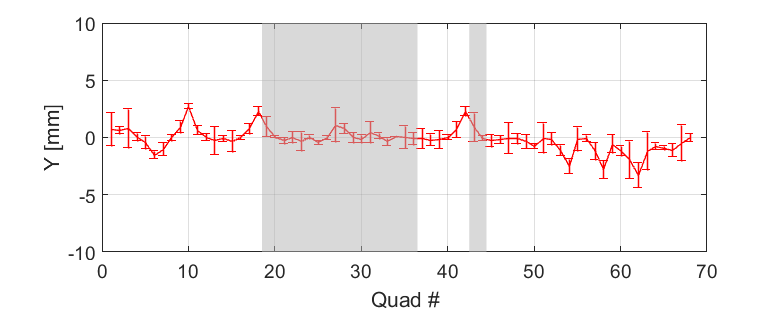
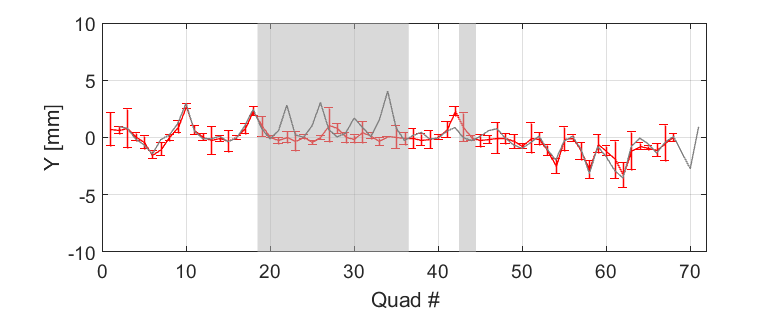
Ch6: added new RSV vert. orbit results

diff --git a/6.Chapter.tex b/6.Chapter.tex
@@ -380,6 +380,20 @@ I conclude that the existing vertical correcters provide too weak of a correctio
 
 
 
+\begin{table}[h]
+\centering
+\caption{Statistics for quad-centering steering method.}
+\label{tab:steeringresults}
+\begin{tabular}{|l|c|c|}
+& Horz. & Vert. \\
+\hline
+First turn RMS & & 1.32 mm\\
+First turn Max & & 4.05 mm\\
+Four turn RMS (in BPMs)& & \\
+Four turn Max (in BPMs)& & \\
+\hline
+\end{tabular}
+\end{table}
 
 
 
@@ -401,9 +415,9 @@ I conclude that the existing vertical correcters provide too weak of a correctio
 \begin{figure}[h]
 \centering
 \subfloat[Vertical position of 6 mA beam in quads for 1st turn.]{\label{fig:vertical_quads}
-	\includegraphics[width=\textwidth,trim={.5in 6.4in .5in 2.4in}, clip]{4.figures/quad_as_BPM_Y.pdf}}
+	\includegraphics[width=\textwidth]{4.figures/steering-y-170901.png}}
 \hspace{.05in}
-\subfloat[Vertical position of 6 mA beam in BPMs for first 4 turns. Note shorted vertical plates at RC2, RC11.]{\label{fig:vertical_BPMs}
+\subfloat[OLD REPLACE PLS, Vertical position of 6 mA beam in BPMs for first 4 turns. Note shorted vertical plates at RC2, RC11.]{\label{fig:vertical_BPMs}
 	\includegraphics[width=\textwidth,trim={.5in 6.5in .5in 2.4in}, clip]{4.figures/BPM_position_sol151116_Y.pdf}}
 \end{figure}
 
@@ -466,7 +480,7 @@ The SSV's were very successful in simulation. To test their effectiveness in the
 
 \begin{table}[h]
 \centering
-\caption{First turn orbit statistics for SSV trial run.}
+\caption{First turn orbit statistics for SSV trial run. Compare to vertical orbit in \ref{tab:steeringresults}}
 \label{tab:SSVexporbit}
 \begin{tabular}{|l|c|}
 \hline
